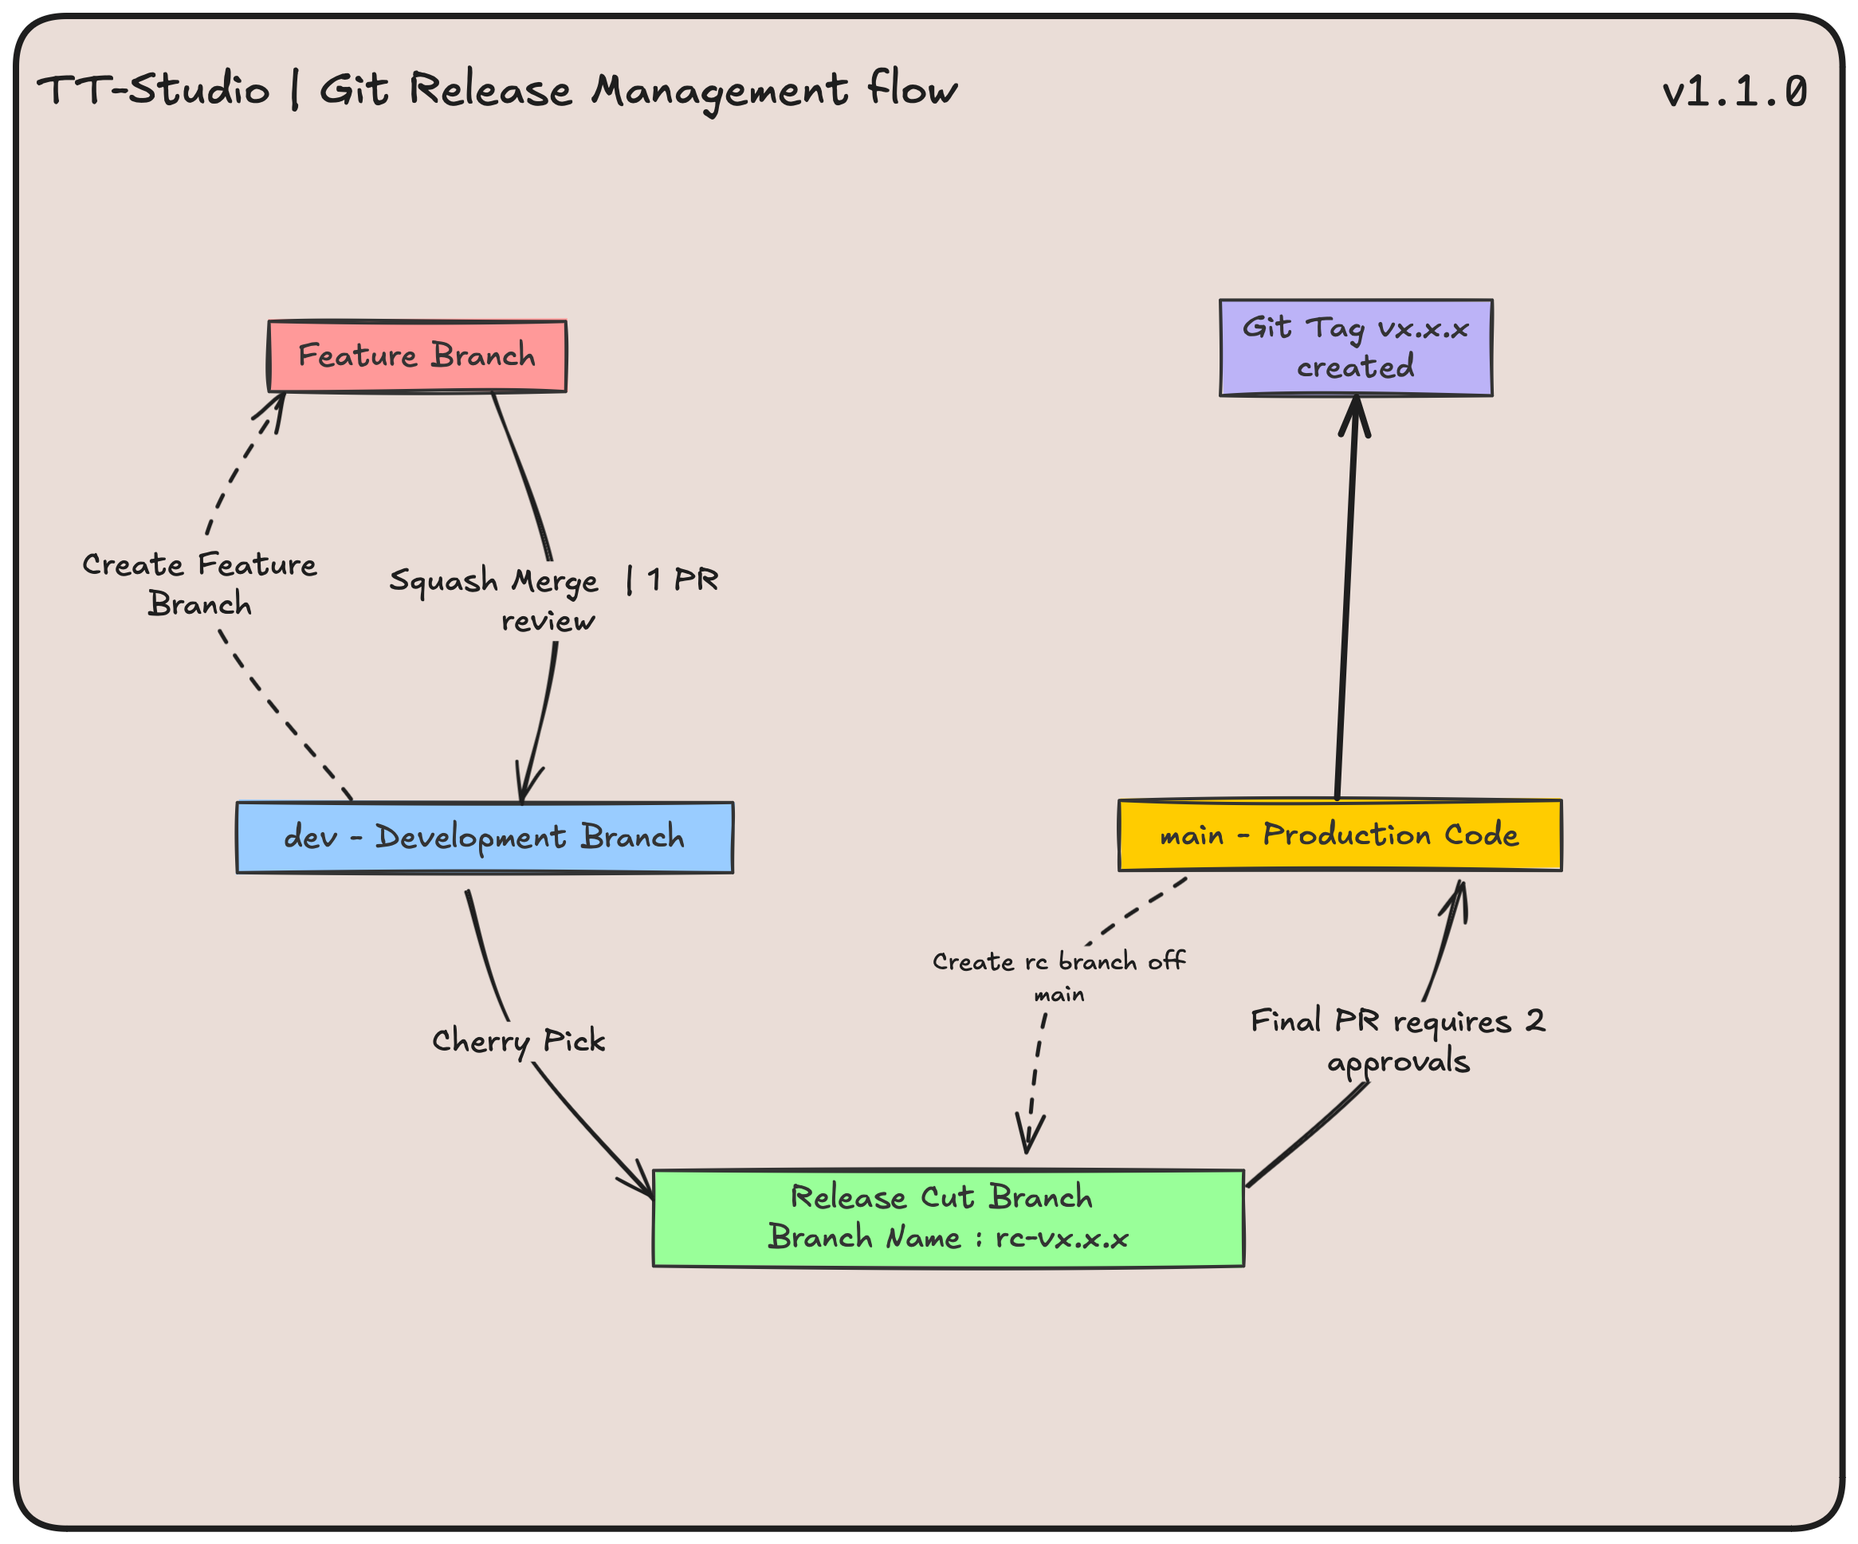
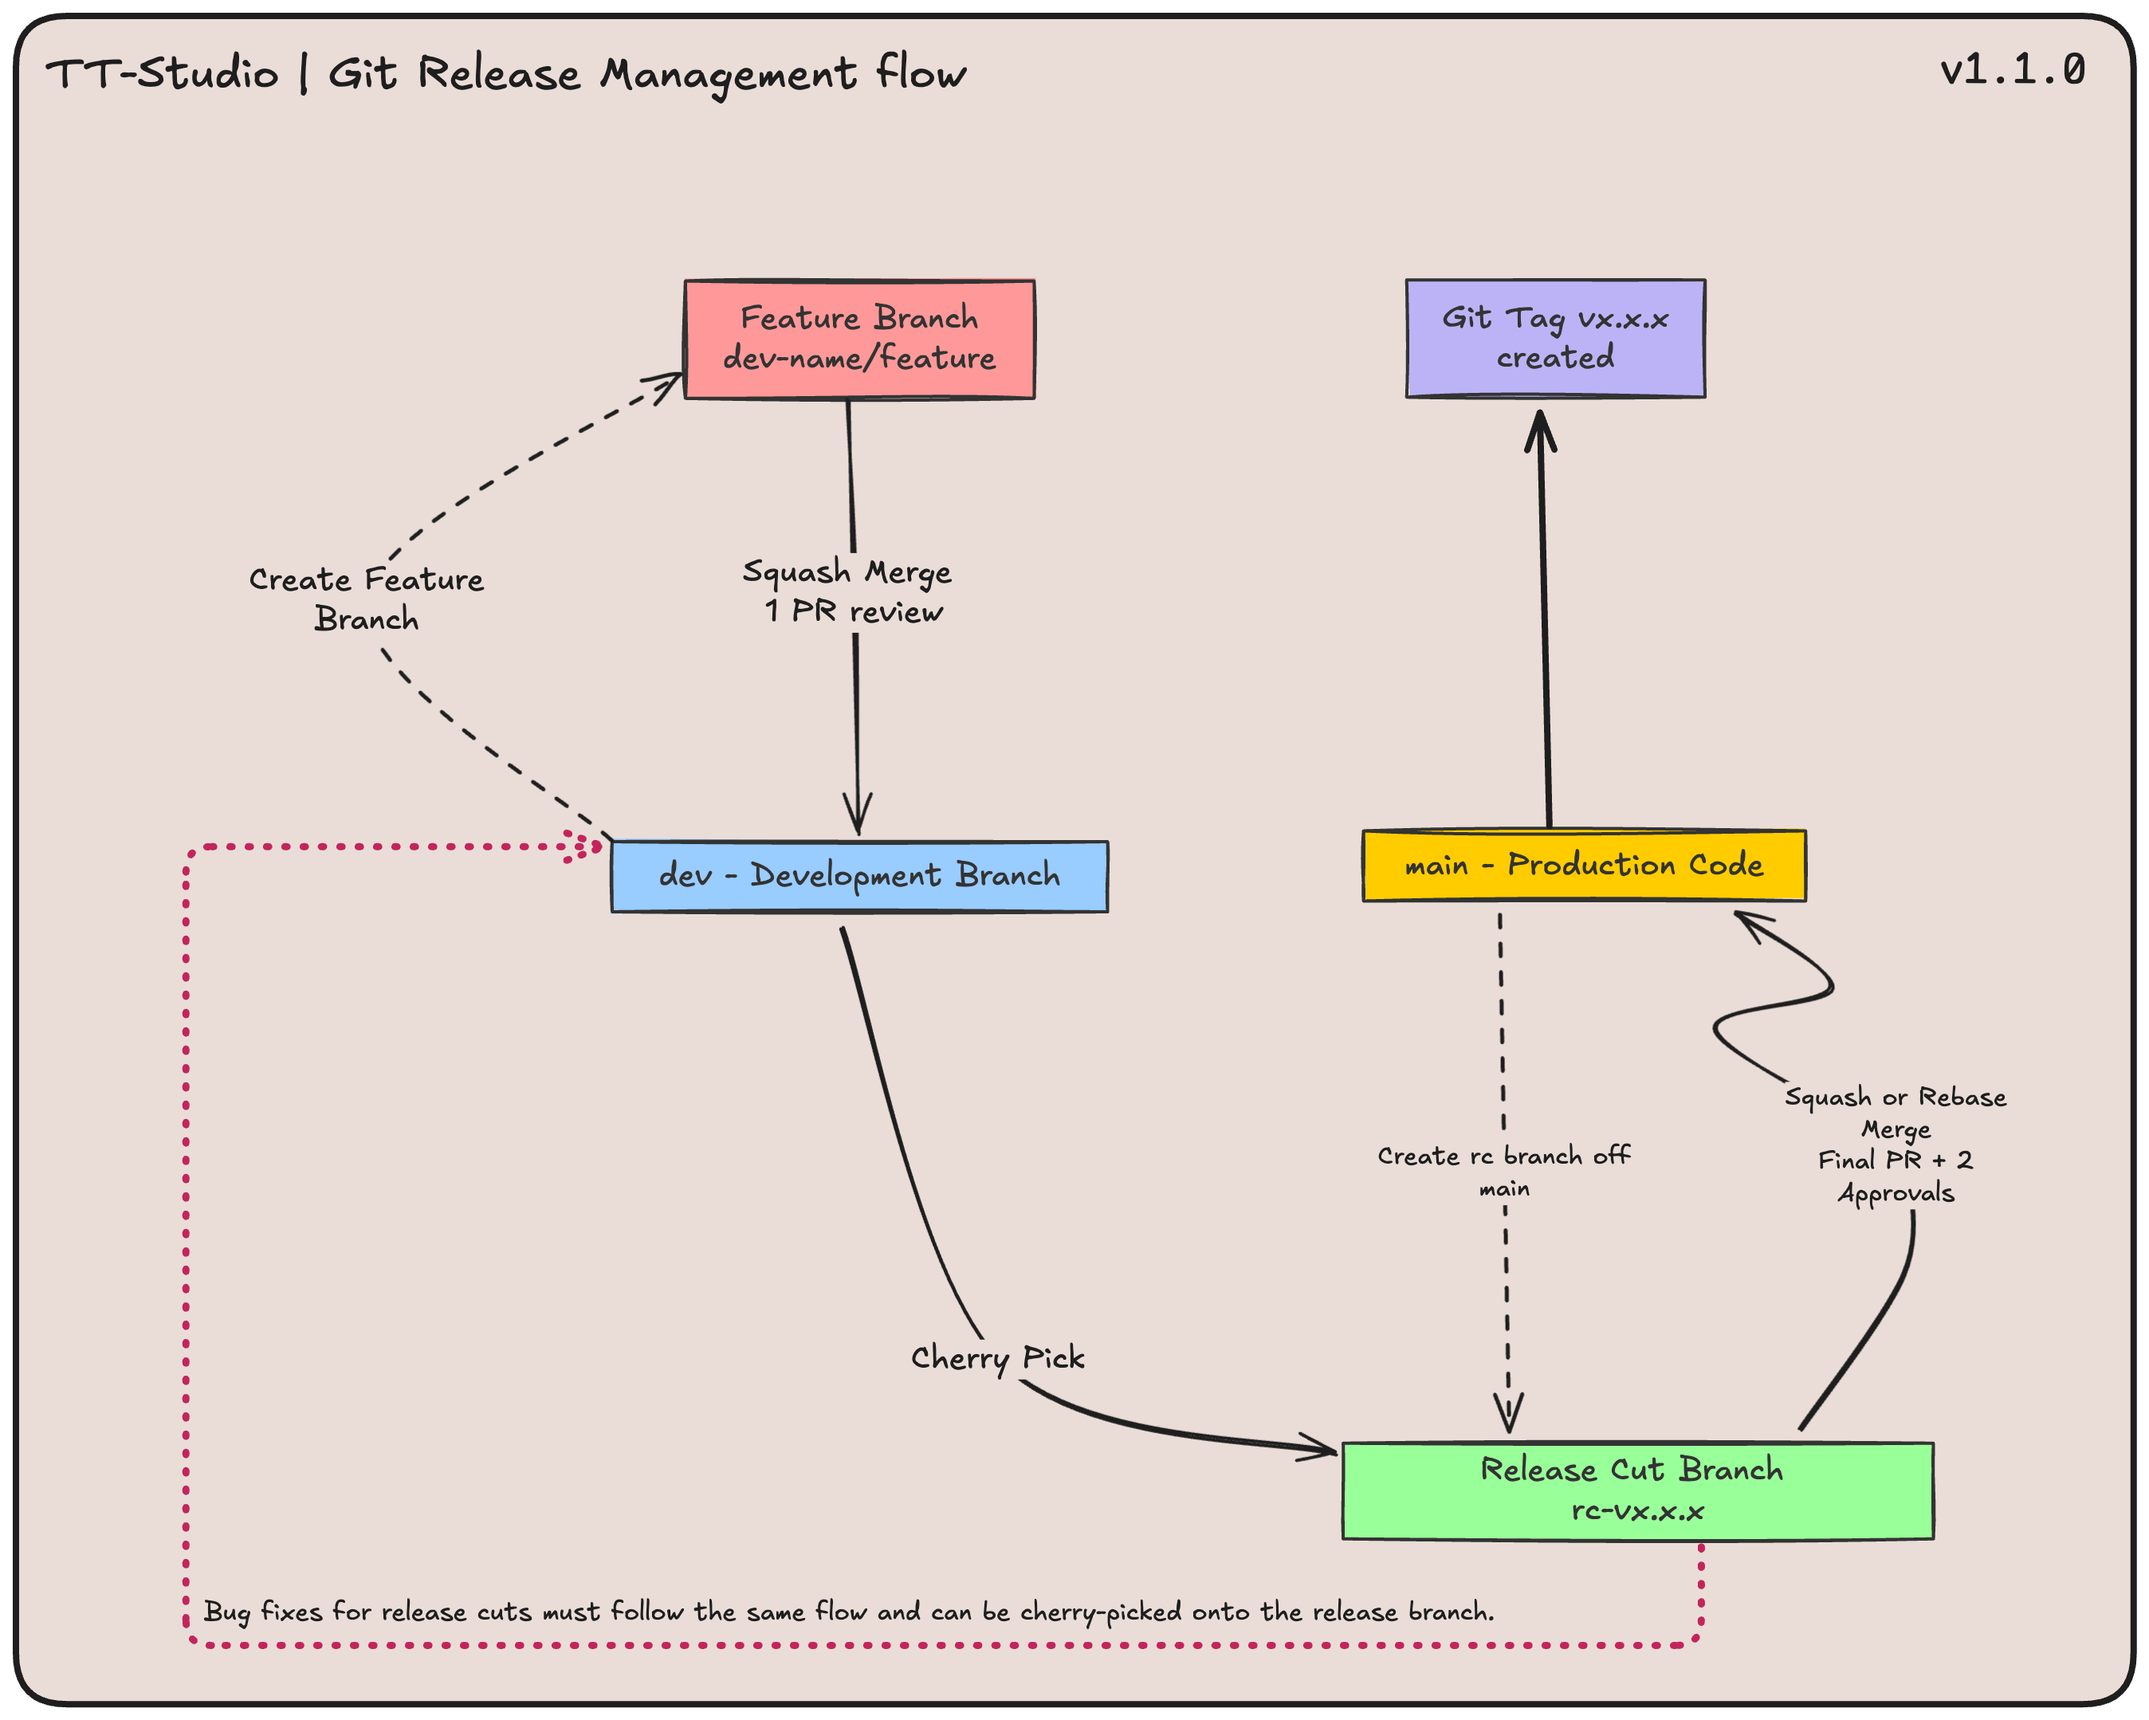
update contributing docs and git merging flowchart

diff --git a/CONTRIBUTING.md b/CONTRIBUTING.md
@@ -1,51 +1,53 @@
-# Contributing to TT-STUDIO
+# **Contributing to TT-STUDIO**
 
-Thank you for your interest in this project! We want to make contributing as easy and transparent as possible.
+Thank you for your interest in this project! We aim to make the contribution process as easy and transparent as possible.
 
-If you're interested in making a contribution, please familiarize yourself with our technical [contribution standards](#contribution-standards) outlined in this guide.
+If you’d like to contribute or have suggestions , please review our technical [contribution standards](#contribution-standards) outlined in this guide.
 
-Next, request the appropriate write permissions by [opening an issue](https://github.com/tenstorrent/tt-studio/issues/new/choose) for GitHub permissions.
+---
 
-All contributions require:
+## **Contribution Requirements**
 
-- An issue:
-  - Please file a feature request or bug report under the Issues section to help get the attention of a maintainer.
-- A pull request (PR).
-- Your PR must be approved by the appropriate reviewers.
+- **Issue Tracking:**
 
-## Contribution Standards
+  - File a feature request or bug report in the Issues section to notify maintainers.
 
-### Code Reviews
+- **Pull Requests (PRs):**
+  - All changes must be submitted via a PR.
+  - PRs require approval from the appropriate reviewers before merging.
+
+---
+
+## **Contribution Standards**
+
+### **Code Reviews**
 
 We actively welcome your pull requests! To ensure quality contributions, any code change must meet the following criteria:
 
 - A PR must be opened and approved by:
   - A maintaining team member.
   - Any codeowners whose modules are relevant to the PR.
-- Run pre-commit hooks.
-- Pass all acceptance criteria mandated in the original issue.
-- Pass the automated GitHub Actions workflow tests.
-- Pass any testing requirements specified by the relevant codeowners.
+- Run **pre-commit hooks**.
+- Pass all **acceptance criteria** mandated in the original issue.
+- Pass the **automated GitHub Actions workflow tests**.
+- Pass any **testing requirements** specified by the relevant codeowners.
 
-### **Git Branching Strategy Overview**
+---
 
-### **1. Main Branches:**
+## **Git Branching Strategy Overview**
 
-- **`main`**: Holds production-ready code.
+### **1. Main Branches**
 
-  - **Rules:**
-
-    - No force pushes.
-
-    - Requires rebase and merge.
-
-- **`dev`**: The central branch where all feature branches are merged and validated before preparing for release cut branch.
+- **`main`** – Holds production-ready tagged code.
 
   - **Rules:**
-
     - No force pushes.
+    - Requires **rebase and merge** or **squash and merge** from a release cut branch.
 
-    - Requires squash merge.
+- **`dev`** – The central branch where all feature branches are merged and validated before preparing a release branch.
+  - **Rules:**
+    - No force pushes.
+    - Requires **squash merge** from a feature branch.
 
 ---
 
@@ -53,54 +55,75 @@ We actively welcome your pull requests! To ensure quality contributions, any cod
 
 #### **Development Process**
 
-- Developers create feature branches from `dev` to work on new features or bug fixes.
-- Once a feature is completed and reviewed, it is **squash merged** into `dev` to maintain a clean history.
+- **Feature Branches:**
+
+  - Created from `dev`.
+  - **Naming convention:** `dev-name/feature` or `dev/github-issue-number`.
+    - Example: `dev-john/new-feature` or `dev-john/1234`.
+
+- **Merging to `dev`:**
+  - Once completed and reviewed, feature branches are **squash merged** into `dev` to maintain a clean history.
 
 ---
 
+### **3. Release Process**
+
 #### **Release Preparation**
 
-- When `dev` is stable and ready for release, a **release cut branch** (e.g., `rc-vx.x.x`) is created from `dev`.
-- Developers **cherry-pick** their completed and validated features from `dev` into the release branch.
-- The release branch is tested before deployment.
+- **Creating the Release Branch:**
+
+  - When `dev` is stable and ready for release, a **release cut branch** is created from `main`.
+  - **Naming convention:** `rc-vx.x.x` (e.g., `rc-v1.2.0`).
+
+- **Feature Inclusion:**
+
+  - Developers **cherry-pick** validated features from `dev` into the release branch.
+  - Test and resolve any **merge conflicts** as needed.
+
+- **Testing & Fixes:**
+  - The release branch undergoes **testing before deployment**.
+  - **Bug fixes and PR comments** follow the standard development flow and can be cherry-picked into the same release branch.
 
 ---
 
 #### **Final Deployment**
 
-- Once the release branch is validated, it is merged into `main` for production deployment.
-- Merging to `main` requires **at least two approvals** to ensure code quality and stability.
-- After merging, the release is tagged following semantic versioning (e.g., `v1.0.0`).
+- After validation, the **release branch is merged into `main`** for production.
+- **At least two approvals** are required for merging to `main` to ensure quality.
+- Merging can be done via **rebase and merge** or **squash and merge** if multiple commits were cherry-picked.
+- The release is **tagged following semantic versioning** (e.g., `v1.0.0`).
 
 ---
 
-#### Git Tagging
+### **4. Git Tagging**
 
-- Tags are created in main to mark production releases.
-
-- [Semantic versioning (e.g., v1.0.0) is used to track different versions.](#versioning-standards)
+- **Tags are created in `main`** to mark production releases.
+- **Semantic versioning** (e.g., `v1.0.0`) is used to track different versions.
 
 ---
 
-### Versioning Standards
+## **Versioning Standards**
 
-To ensure consistency in versioning, we follow the principles of **semantic versioning**:
+To ensure consistency, we follow **semantic versioning** principles:
 
-- **MAJOR**: Increment for incompatible or breaking changes to backend or frontend APIs or functionality:
+- **MAJOR**: Increment for **breaking changes** to backend or frontend APIs or functionality.
 
   - Removing or significantly altering existing features.
-  - Changing the current networking design.
-  - Altering backend API flows.
-  - Changing frontend API calls and/or redoing entire components.
+  - Changing the networking design.
+  - Modifying backend API flows.
+  - Redesigning frontend API calls or components.
 
-- **MINOR**: Increment when adding new features or capabilities in a backward-compatible manner:
+- **MINOR**: Increment for **new features** or capabilities that are **backward-compatible**.
 
-  - For example, supporting new models like YOLOv4 or adding new functionalities.
+  - Example: Supporting new models like YOLOv4 or adding additional functionalities.
+  - If the current version is `1.2.3` and a new **minor** release is introduced, it becomes **`1.3.0`**.
+  - If additional patches are needed after `1.3.0`, the version will increment to **`1.3.1`**, **`1.3.2`**, and so on.
 
-- **PATCH**: Increment for bug fixes and minor improvements that are backward-compatible.
+- **PATCH**: Increment for **bug fixes and minor improvements** that are **backward-compatible**.
+  - If patches are applied to `1.2.3`, the next versions would be `1.2.4`, `1.2.5`, etc.
 
 ---
 
-### FlowChart for our Git Branching Strategy
+## **Git Branching Strategy Flowchart**
 
-<img src="Git-management.png" alt="Git Branching Strategy" width="600" />
+<img src="git-management.png" alt="Git Branching Strategy" width="600" />
